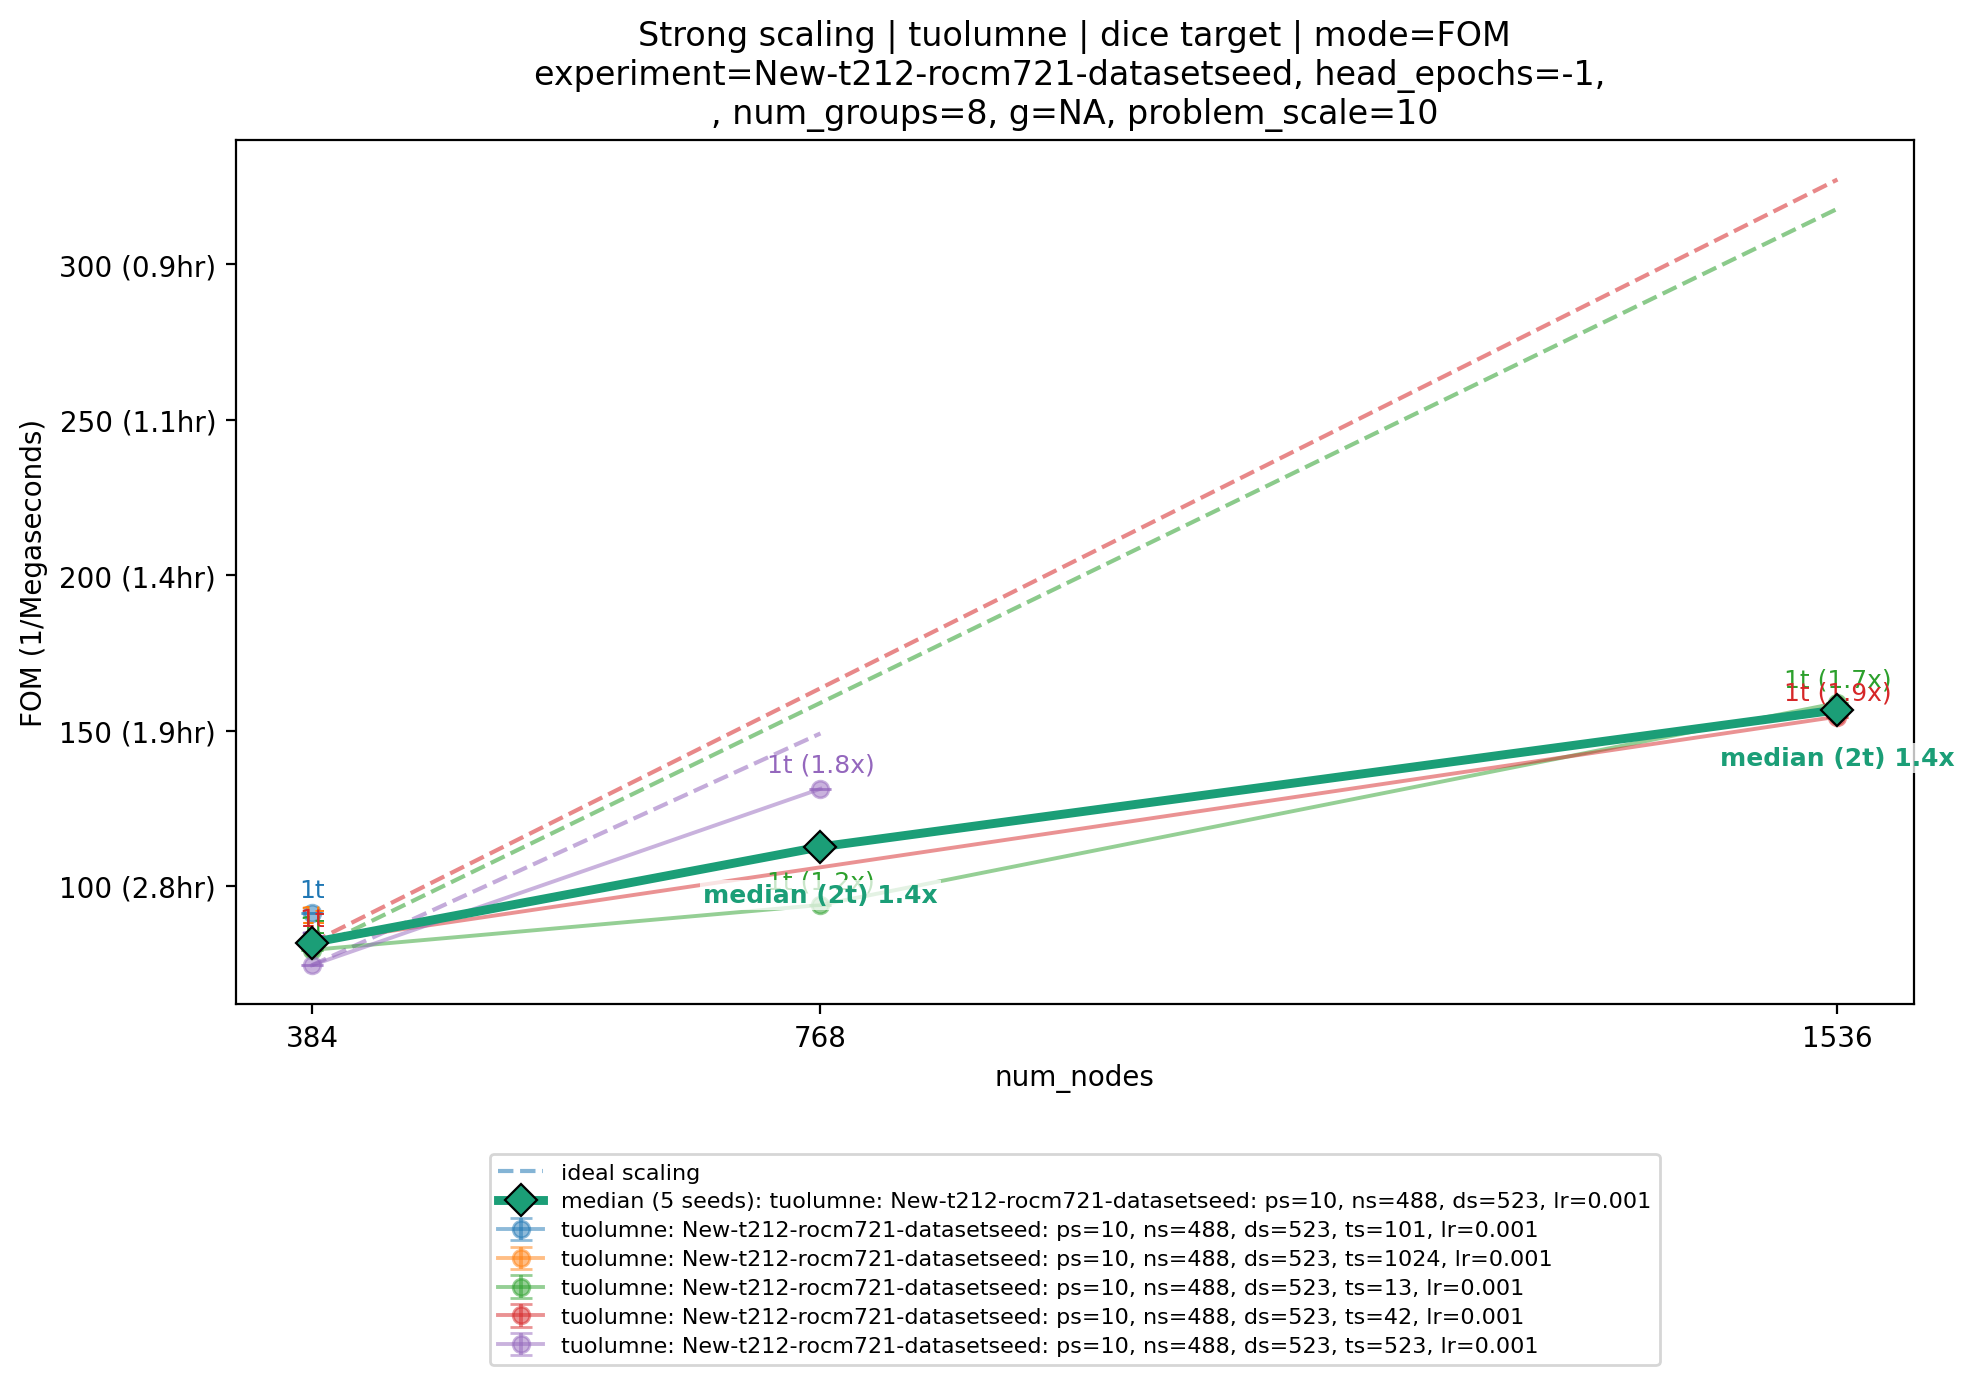
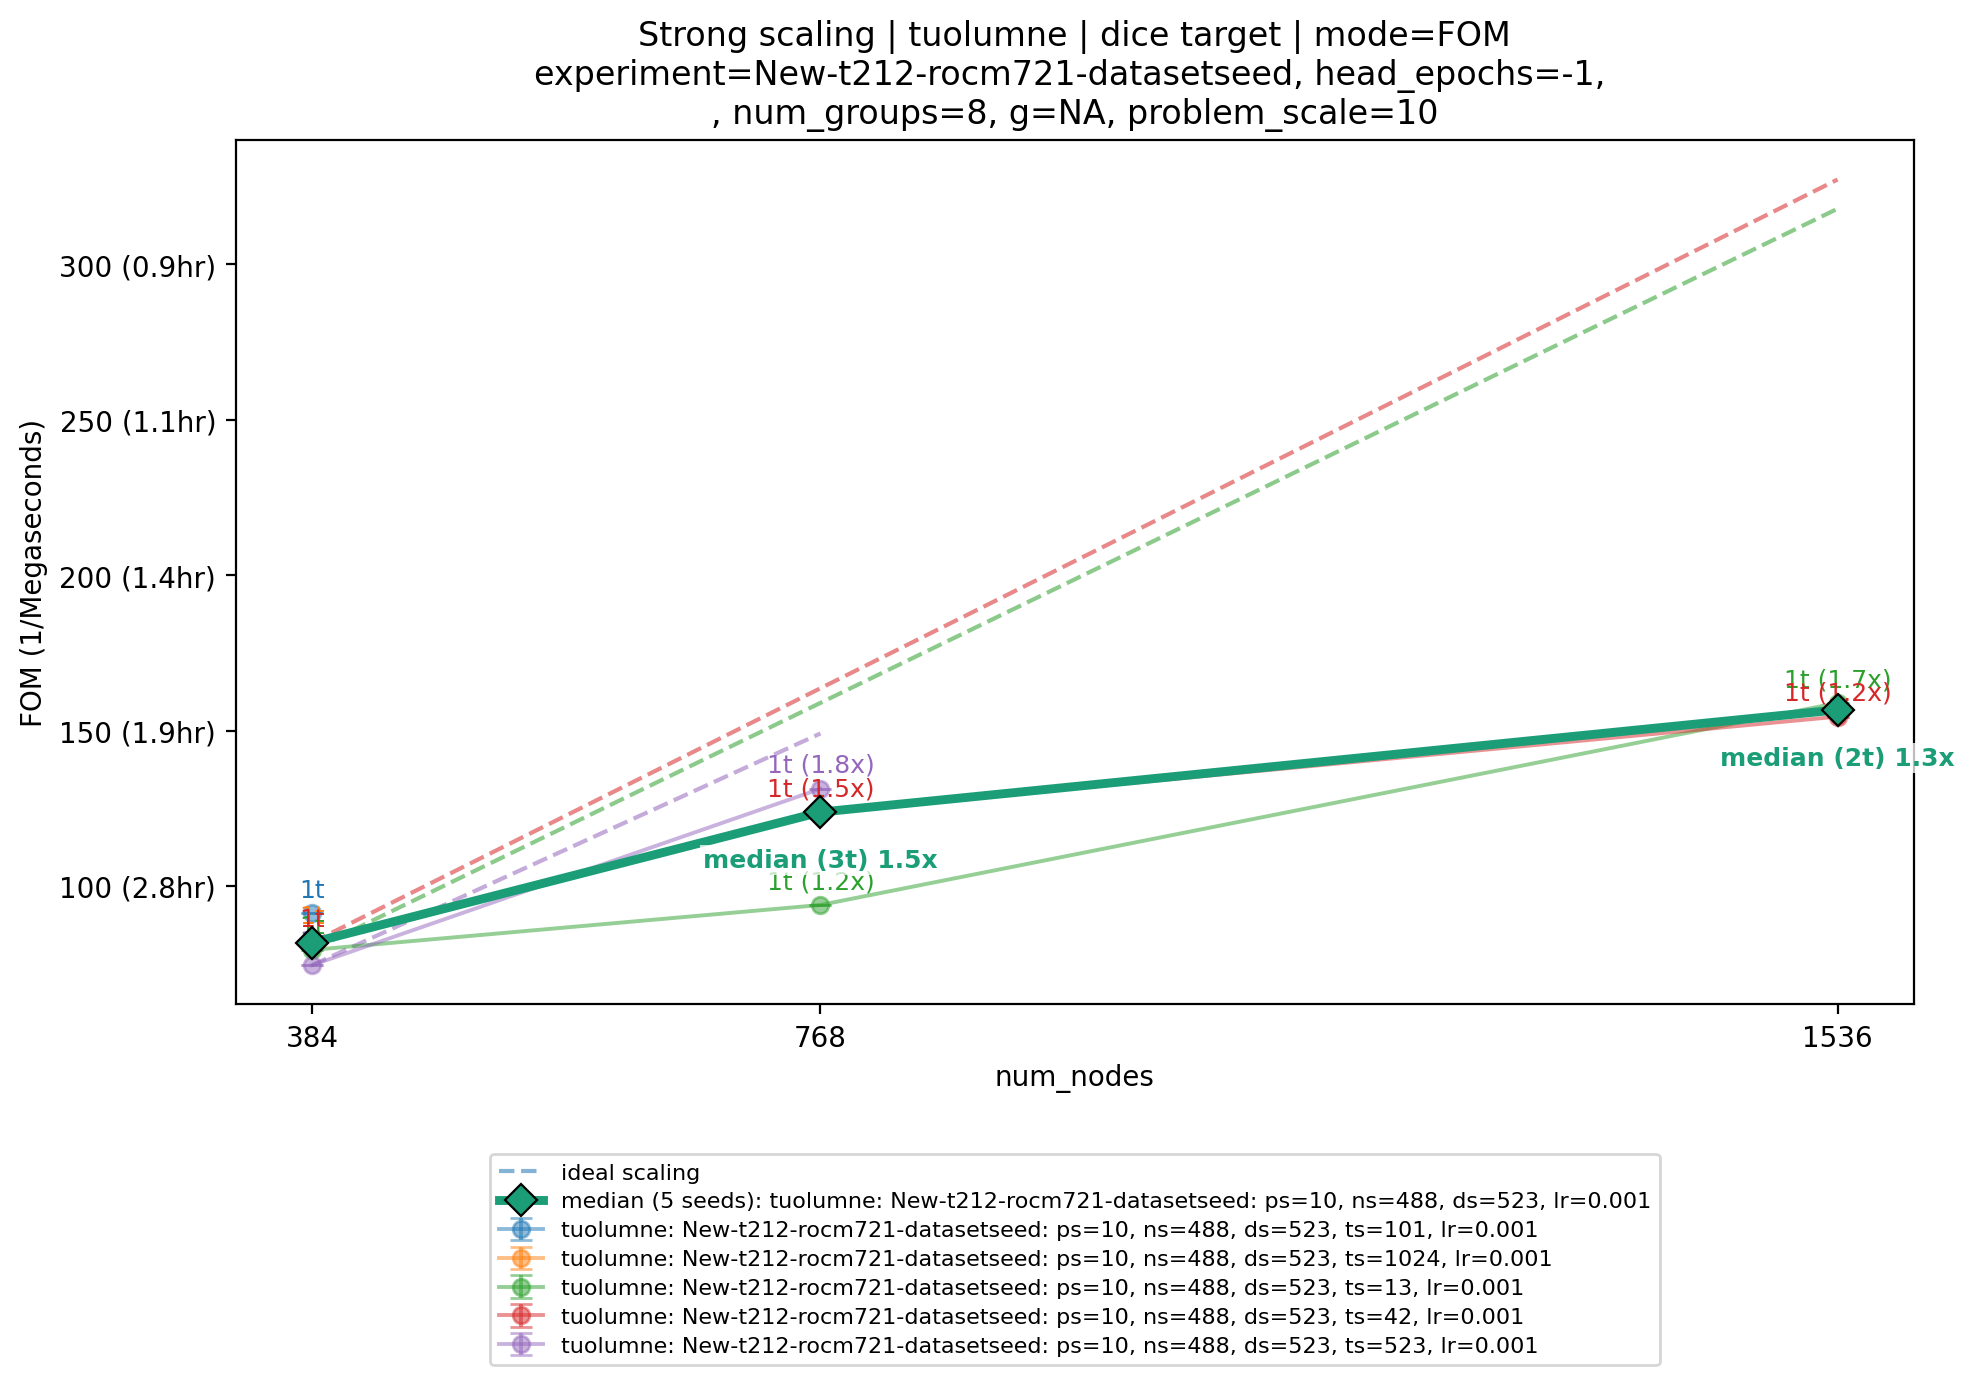
Add data

Changed region(s): [[0.1854, 0.4968, 0.958, 0.683]]

diff --git a/docs/14_scaffold/scaffold.rst b/docs/14_scaffold/scaffold.rst
@@ -355,11 +355,11 @@ See :ref:`scaffold-run-parameters` for strong-scaling requirements.
 .. image:: plots/001-strong-scaling-tuolumne-dice-target-mode-fom.png
    :align: center
 
-.. list-table:: Strong scaling | tuolumne | dice target | mode=FOM; tuolumne; New-t212-rocm721-datasetseed: ps=10, ns=488, ds=523, lr=0.001 (FOM in 1/Megaseconds)
+.. list-table:: Strong scaling | tuolumne | dice target | mode=FOM; tuolumne; New-t212-rocm721-datasetseed: ps=10, ns=488, ds=523, lr=0.001
    :header-rows: 1
 
    * - num_nodes
-     - training_seed
+     - seed
      - FOM (1/Megaseconds)
    * - 384
      - 13
@@ -379,6 +379,9 @@ See :ref:`scaffold-run-parameters` for strong-scaling requirements.
    * - 768
      - 13
      - 93.93
+   * - 768
+     - 42
+     - 123.8
    * - 768
      - 523
      - 131.3
@@ -416,6 +419,9 @@ See :ref:`scaffold-run-parameters` for strong-scaling requirements.
    * - 768
      - 13
      - 0.46
+   * - 768
+     - 42
+     - 0.55
    * - 768
      - 523
      - 0.47
